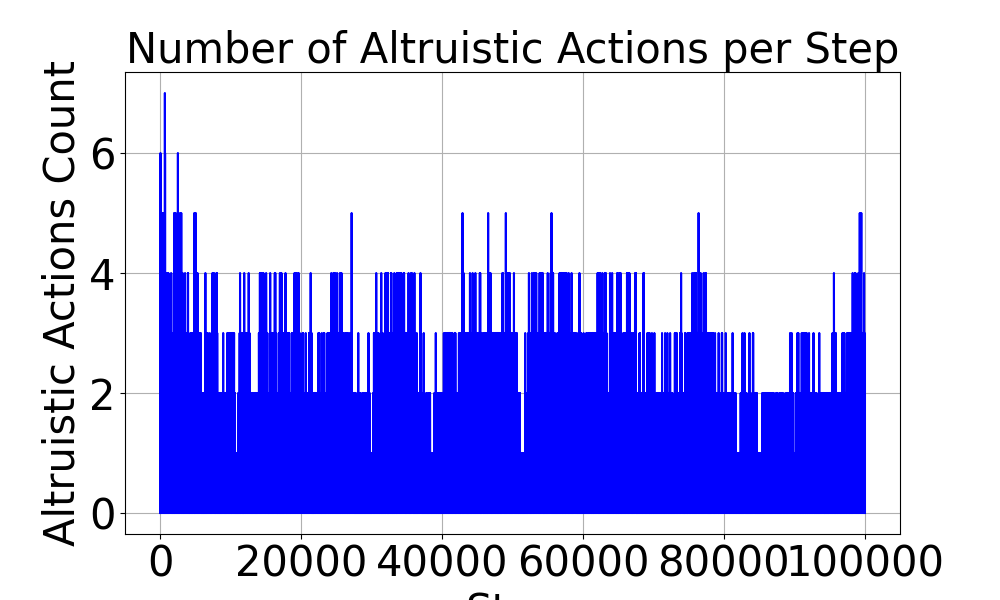
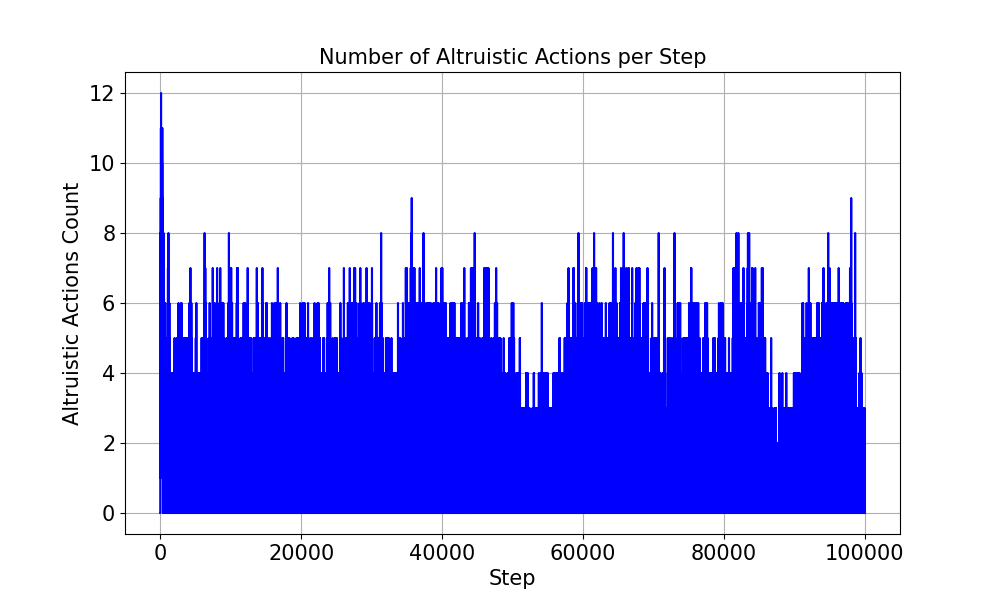
simu update

diff --git a/altruisum_simu/simu_num_agents.py b/altruisum_simu/simu_num_agents.py
@@ -170,10 +170,10 @@ print("シミュレーション完了。グラフを保存します。")
 # 1. 利他行動のグラフ描画と保存
 plt.figure(figsize=(10, 6))
 plt.plot(history_steps, history_altruism, marker='', linestyle='-', color='b')
-plt.title('Number of Altruistic Actions per Step', fontsize=18)
-plt.xlabel('Step', fontsize=18)
-plt.ylabel('Altruistic Actions Count', fontsize=18)
-plt.tick_params(labelsize=18)
+plt.title('Number of Altruistic Actions per Step', fontsize=15)
+plt.xlabel('Step', fontsize=15)
+plt.ylabel('Altruistic Actions Count', fontsize=15)
+plt.tick_params(labelsize=15)
 plt.grid(True)
 plt.savefig('altruism_history.png')  
 plt.close()
@@ -181,10 +181,10 @@ plt.close()
 # 2. 個体数推移のグラフ描画と保存
 plt.figure(figsize=(10, 6))
 plt.plot(history_steps, history_population, marker='', linestyle='-', color='g')
-plt.title('Population Size over Time', fontsize=18)
-plt.xlabel('Step', fontsize=18)
-plt.ylabel('Number of Agents', fontsize=18)
-plt.tick_params(labelsize=18)
+plt.title('Population Size over Time', fontsize=15)
+plt.xlabel('Step', fontsize=15)
+plt.ylabel('Number of Agents', fontsize=15)
+plt.tick_params(labelsize=15)
 plt.grid(True)
 plt.savefig('population_history.png')  
 plt.close()
